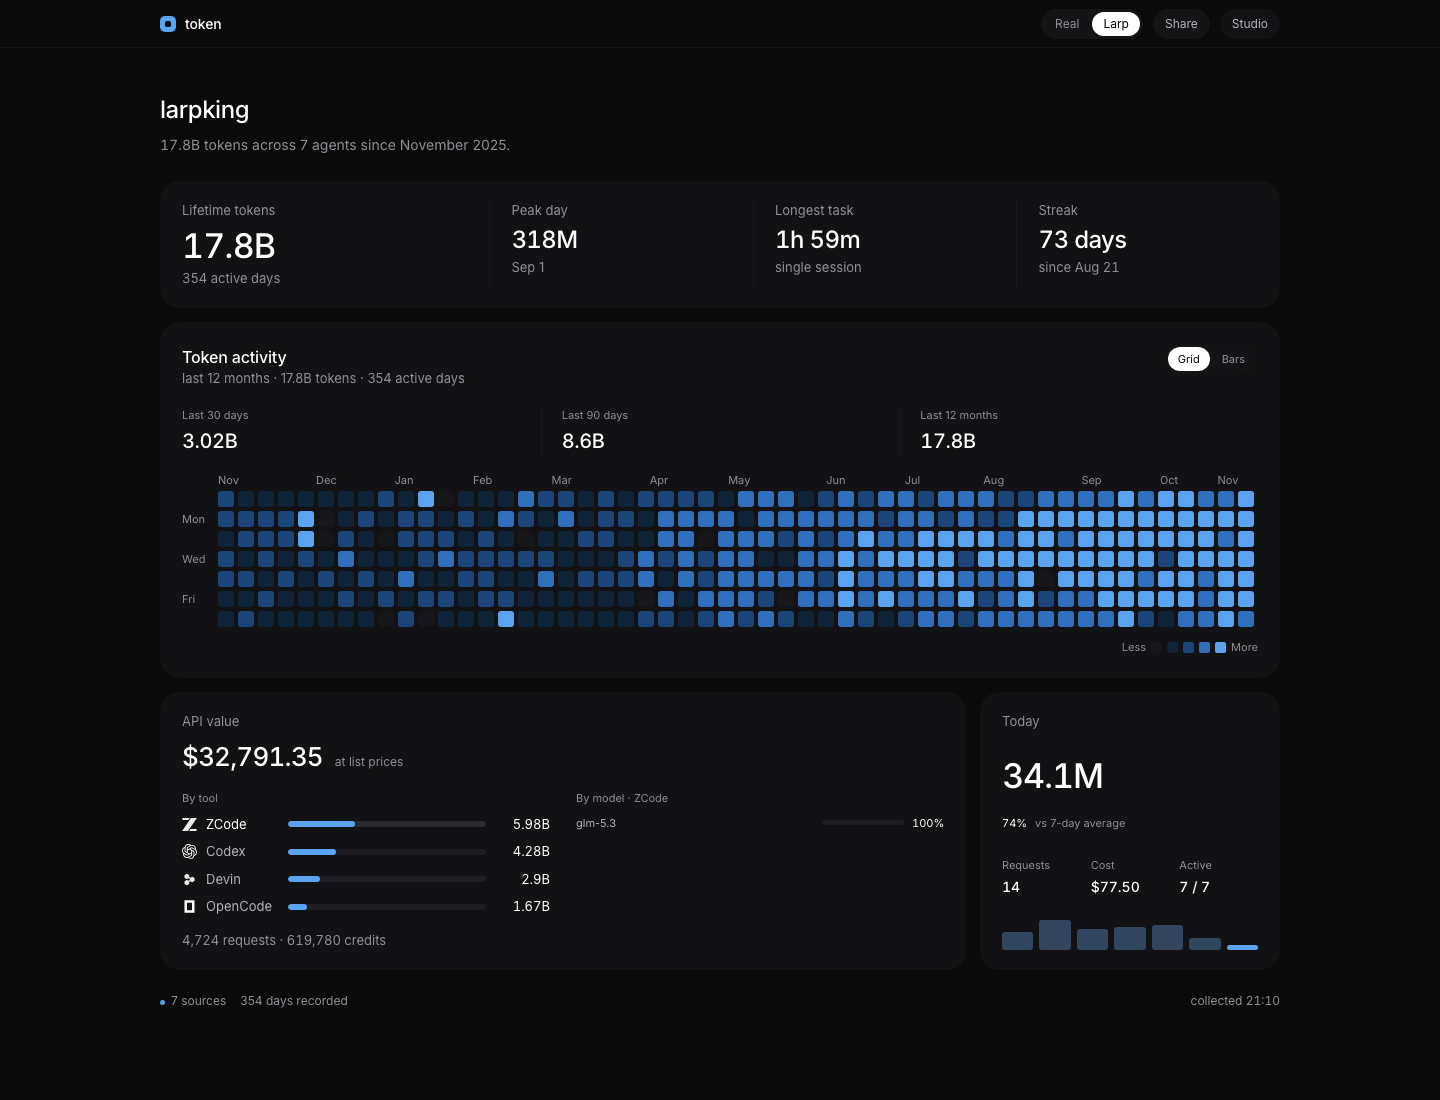
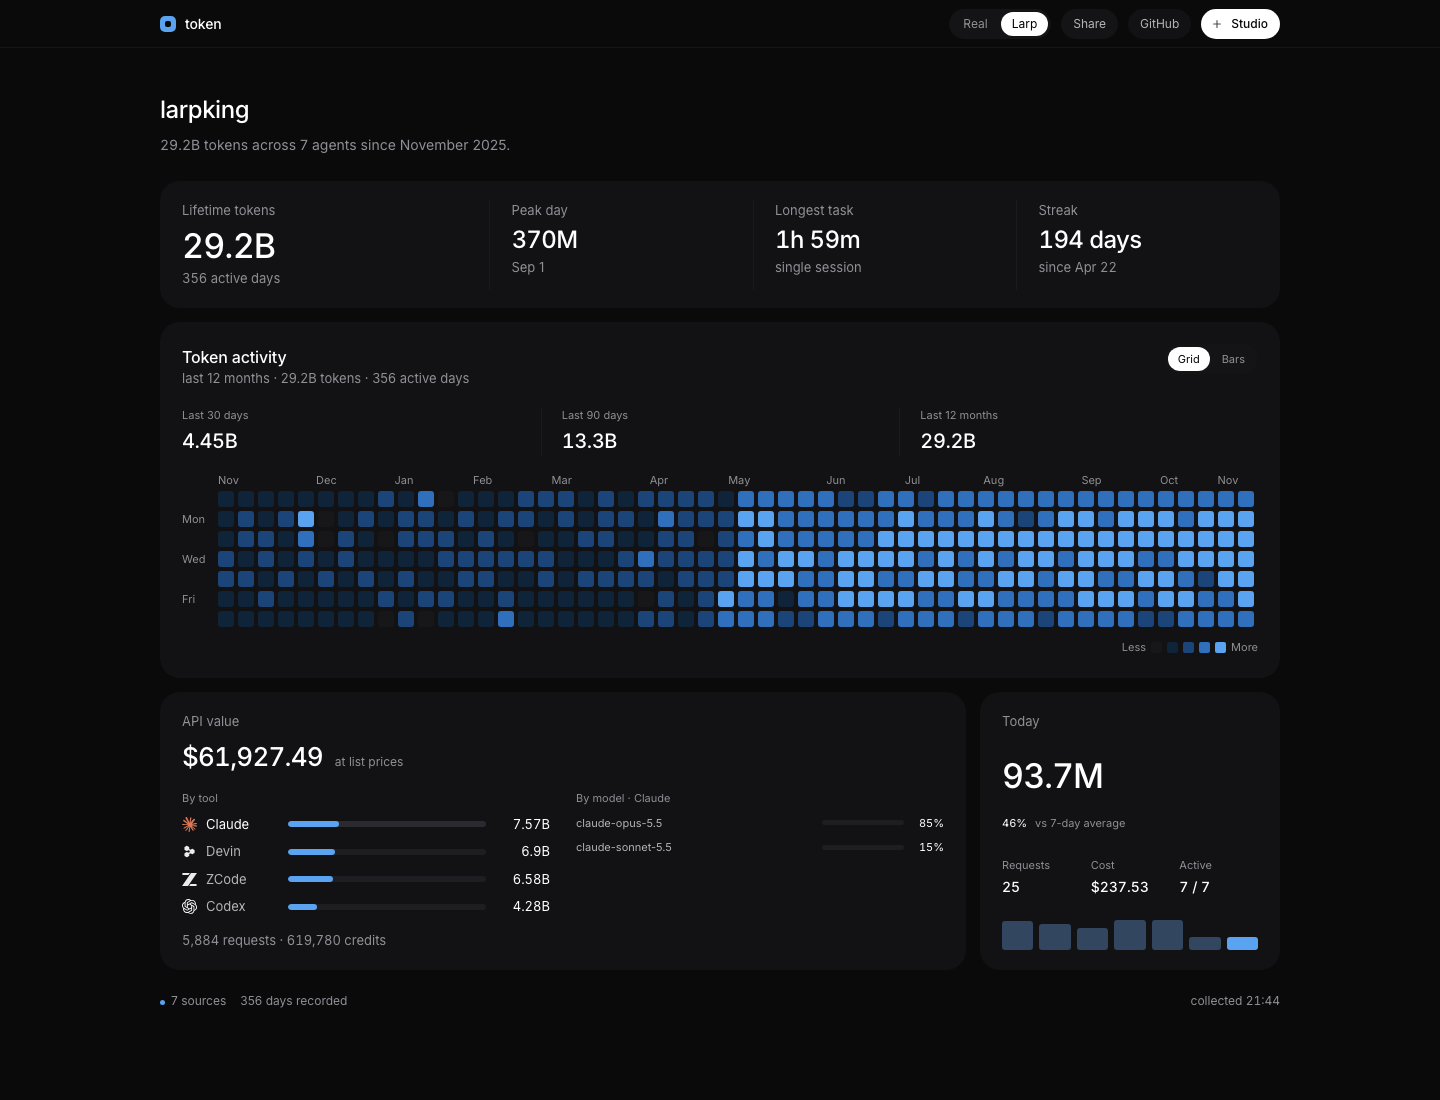
Raise demo to 29.2B, add GitHub, and make Studio the primary action

diff --git a/lib/settings.ts b/lib/settings.ts
@@ -41,21 +41,71 @@ const hostedDemo: ManualEntry[] = [
     id: "demo-zcode",
     label: "ZCode",
     tool: "zcode",
-    tokens: 5_800_000_000,
+    tokens: 6_400_000_000,
     from: "2026-04-01",
     to: "2026-10-31",
     shape: "ramp",
     model: "glm-5.3",
   },
   {
-    id: "demo-devin",
+    id: "demo-devin-opus",
     label: "Devin",
     tool: "devin",
-    tokens: 2_900_000_000,
-    from: "2026-06-01",
-    to: "2026-10-31",
-    shape: "ramp",
+    tokens: 3_200_000_000,
+    from: "2026-05-01",
+    to: "2026-11-01",
+    shape: "even",
+    model: "claude-opus-5.5",
+  },
+  {
+    id: "demo-devin-swe",
+    label: "Devin",
+    tool: "devin",
+    tokens: 3_700_000_000,
+    from: "2026-05-01",
+    to: "2026-11-01",
+    shape: "even",
     model: "swe-2-high",
+  },
+  {
+    id: "demo-claude-opus",
+    label: "Claude",
+    tool: "claude",
+    tokens: 5_800_000_000,
+    from: "2026-05-01",
+    to: "2026-11-01",
+    shape: "even",
+    model: "claude-opus-5.5",
+  },
+  {
+    id: "demo-claude-sonnet",
+    label: "Claude",
+    tool: "claude",
+    tokens: 1_120_000_000,
+    from: "2026-05-01",
+    to: "2026-11-01",
+    shape: "even",
+    model: "claude-sonnet-5.5",
+  },
+  {
+    id: "demo-opencode",
+    label: "OpenCode",
+    tool: "opencode",
+    tokens: 1_120_000_000,
+    from: "2026-05-01",
+    to: "2026-11-01",
+    shape: "even",
+    model: "glm-5.3",
+  },
+  {
+    id: "demo-gemini",
+    label: "Gemini",
+    tool: "gemini",
+    tokens: 722_000_000,
+    from: "2026-05-01",
+    to: "2026-11-01",
+    shape: "even",
+    model: "gemini-3.5-flash",
   },
 ];
 

diff --git a/components/Profile.tsx b/components/Profile.tsx
@@ -11,6 +11,7 @@ import { Studio } from "./Studio";
 import { ShareButton } from "./ShareButton";
 import { ProviderLogo } from "./ProviderLogo";
 import { providerById } from "@/lib/providers";
+import { GITHUB_URL } from "@/lib/links";
 
 function streakOf(days: Snapshot["days"]) {
   const active = new Set(days.filter((d) => d.tokens > 0).map((d) => d.day));
@@ -193,7 +194,25 @@ export function Profile({
               </button>
             </div>
             <ShareButton snapshot={snapshot} settings={settings} />
-            <button className="pill" onClick={() => setOpen(true)} aria-label="Open studio">
+            <a
+              className="pill gh"
+              href={GITHUB_URL}
+              target="_blank"
+              rel="noreferrer"
+              aria-label="Open the GitHub repository"
+            >
+              GitHub
+            </a>
+            <button className="pill action" onClick={() => setOpen(true)} aria-label="Open studio">
+              <svg width="12" height="12" viewBox="0 0 16 16" aria-hidden>
+                <path
+                  d="M8 3.5v9M3.5 8h9"
+                  fill="none"
+                  stroke="currentColor"
+                  strokeWidth="1.5"
+                  strokeLinecap="round"
+                />
+              </svg>
               Studio
             </button>
           </div>

diff --git a/app/layout.tsx b/app/layout.tsx
@@ -23,13 +23,20 @@ export const metadata: Metadata = {
     siteName: "larpusage",
     title: "larpusage — token profile",
     description: "Your AI token usage, as a personality.",
-    images: [{ url: "/og.png", width: 1200, height: 630 }],
+    images: [
+      {
+        url: "/og-larp.png",
+        width: 1200,
+        height: 630,
+        alt: "larpking token profile with API value and provider breakdown",
+      },
+    ],
   },
   twitter: {
     card: "summary_large_image",
     title: "larpusage — token profile",
     description: "Your AI token usage, as a personality.",
-    images: ["/og.png"],
+    images: ["/og-larp.png"],
   },
 };
 

diff --git a/components/ShareCard.tsx b/components/ShareCard.tsx
@@ -6,6 +6,7 @@ import type { Snapshot } from "@/lib/types";
 import type { Settings } from "@/lib/settings";
 import { compact, duration, money } from "@/lib/format";
 import { providerById } from "@/lib/providers";
+import { GITHUB_LABEL } from "@/lib/links";
 import { ProviderLogo } from "./ProviderLogo";
 import styles from "./share-card.module.css";
 
@@ -195,6 +196,7 @@ export function ShareCard({
             </span>
           ))}
         </div>
+        <div className={styles.repo}>{GITHUB_LABEL}</div>
       </div>
     </div>
   );

diff --git a/app/globals.css b/app/globals.css
@@ -149,6 +149,23 @@ a {
   color: #000;
 }
 
+.pill.action {
+  background: var(--text);
+  color: #08080a;
+  font-weight: 500;
+  padding: 0 12px 0 10px;
+}
+
+.pill.action:hover {
+  background: #ffffff;
+  color: #000000;
+}
+
+.pill.action svg {
+  display: block;
+  opacity: 0.72;
+}
+
 .avatar {
   width: 26px;
   height: 26px;
@@ -620,6 +637,12 @@ a {
   .heat-wrap {
     --cell: 12px;
     --cellgap: 4px;
+  }
+}
+
+@media (max-width: 700px) {
+  .pill.gh {
+    display: none;
   }
 }
 

diff --git a/components/share-card.module.css b/components/share-card.module.css
@@ -294,6 +294,15 @@
   letter-spacing: 0.02em;
 }
 
+.repo {
+  flex: 0 0 auto;
+  font-size: 11px;
+  line-height: 1;
+  color: #8f8f96;
+  white-space: nowrap;
+  letter-spacing: 0;
+}
+
 
 .value {
   margin-top: auto;

diff --git a/lib/links.ts b/lib/links.ts
@@ -1,0 +1,2 @@
+export const GITHUB_URL = "https://github.com/umutyesildal/larpusage";
+export const GITHUB_LABEL = "github.com/umutyesildal/larpusage";
